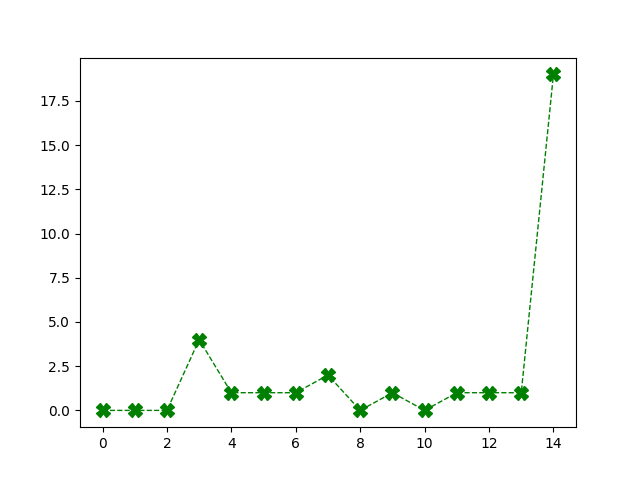
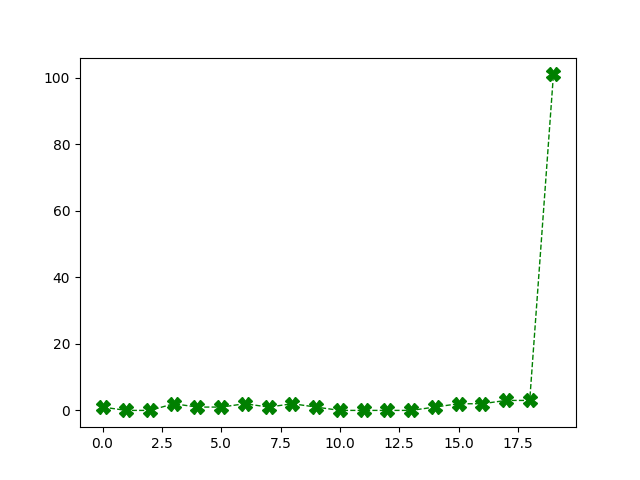
forçando perder com mais de 100 pontos

diff --git a/play_game_ar.py b/play_game_ar.py
@@ -13,8 +13,9 @@ from reinforcement_learning import ar as rl
 
 list_of_scores = []
 
+
 def run(
-        pygame, clock, screen, ground_group, plain_group, 
+        pygame, clock, screen, ground_group, plain_group,
         RL,
         ar=False,
         episodes=0,
@@ -28,56 +29,60 @@ def run(
     # Reinforcement Learning
     # -----------------------------------------------------------
     # RL = rl.RL(
-    #     alpha=alpha, 
-    #     gamma=gamma, 
-    #     epsilon=epsilon, 
+    #     alpha=alpha,
+    #     gamma=gamma,
+    #     epsilon=epsilon,
     #     episodes=episodes,
     #     init_table=init_table
     # )
     # RL.start_q_table()
     # RL.update_epsilon(0 if episode > 9 else 0.1 if episode > 4 else epsilon)
-    RL.update_epsilon(0 if episode == episodes - 1 else (epsilon / 2) if episode > (episodes // 2) else (epsilon / 4) if episode > (episodes // 4) else (epsilon / 6) if episode > (episodes // 6) else epsilon)
-    action = 10
-    state = 10
+    RL.update_epsilon(0 if episode == episodes - 1 else (epsilon / 2) if episode > (episodes // 2) else (epsilon / 4) if episode > (episodes // (1/4)) else (epsilon / 6) if episode > (episodes // (1/6)) else epsilon)
+    print("\tepsilon", RL.epsilon)
+    print("\ttabela")
+    print(RL.q_table)
+    print()
+    action=10
+    state=10
 
     # -----------------------------------------------------------
     # Configurações iniciais
     # -----------------------------------------------------------
 
     # game background image
-    BACKGROUND = pygame.image.load(address.BACKGROUND)
-    BACKGROUND = pygame.transform.scale(
+    BACKGROUND=pygame.image.load(address.BACKGROUND)
+    BACKGROUND=pygame.transform.scale(
         BACKGROUND,
         constants.SCREEN_SIZE
     )
 
-    SCORE = 0
+    SCORE=0
 
     # plain group
-    plain_group = plain_group
-    plain = plain_group.sprites()[0]
+    plain_group=plain_group
+    plain=plain_group.sprites()[0]
     # plain_group = pygame.sprite.Group()
     # plain = components.Plain()
     # plain_group.add(plain)
 
     # tree group
-    tree_group = pygame.sprite.Group()
-    tree, tree_inverted = methods.get_random_trees(
+    tree_group=pygame.sprite.Group()
+    tree, tree_inverted=methods.get_random_trees(
         constants.SCREEN_WIDTH
     )
-    LAST_TREE = tree
+    LAST_TREE=tree
     tree_group.add(tree)
     tree_group.add(tree_inverted)
 
     # score group
-    score_group = pygame.sprite.Group()
-    score = components.Score(0, 0)
+    score_group=pygame.sprite.Group()
+    score=components.Score(0, 0)
     score_group.add(score)
 
     # -----------------------------------------------------------
 
     # game loop
-    game_loop = True
+    game_loop=True
     while game_loop:
         clock.tick(constants.FPS)
 
@@ -89,32 +94,36 @@ def run(
         for x in score_group:
             score_group.remove(x)
 
-        tree = tree_group.sprites()[0]
-        agent = plain
+        tree=tree_group.sprites()[0]
+        agent=plain
 
         SCORE += methods.get_score(tree)
 
+        if SCORE > 100:
+            plain.updateGAP(constants.GAP * (SCORE - 99))
+
         # verificar distância do agente para a passagem
-        dist_x, dist_y, tree_x, tree_y = methods.dist_agent(tree_group, agent)
+        dist_x, dist_y, tree_x, tree_y=methods.dist_agent(tree_group, agent)
         plain.set_distx_disty_pass(dist_x, dist_y)
 
         # -----------------------------------
         # show components
         # -----------------------------------
-        FIRST_TREE = tree_group.sprites()[0]
+        FIRST_TREE=tree_group.sprites()[0]
 
         # show plain
         plain_group.update()
         plain_group.draw(screen)
 
         # add new tree
-        tree_group, LAST_TREE = methods.i_have_to_create_another_one(tree_group, LAST_TREE)        
+        tree_group, LAST_TREE=methods.i_have_to_create_another_one(
+            tree_group, LAST_TREE)
         # remove tree group
-        tree_group = methods.i_have_to_destroy_tree(tree_group)        
+        tree_group=methods.i_have_to_destroy_tree(tree_group)
         # remove ground group
-        ground_group = methods.i_have_to_destroy_ground(ground_group) 
+        ground_group=methods.i_have_to_destroy_ground(ground_group)
         # set show score
-        score_group = methods.set_score(score_group, SCORE)
+        score_group=methods.set_score(score_group, SCORE)
 
         # show tree
         tree_group.update()
@@ -132,21 +141,23 @@ def run(
         pygame.display.update()
 
         # verificar colisão
-        game_loop = methods.collided(plain_group, tree_group, ground_group)
+        game_loop=methods.collided(plain_group, tree_group, ground_group)
 
         if game_loop:
             # ---------------------------------------------
             # RL
-            x_plain, y_plain = plain.get_pos()
-            x_dist, y_dist = plain.get_distx_disty_pass()
-            x_pos_pass = tree_x
-            y_pos_pass = tree_y
+            x_plain, y_plain=plain.get_pos()
+            x_dist, y_dist=plain.get_distx_disty_pass()
+            x_pos_pass=tree_x
+            y_pos_pass=tree_y
 
             if action != 10:
-                RL.q_learning(x_plain, y_plain, x_dist, y_dist, x_pos_pass, y_pos_pass, action, state)
+                RL.q_learning(x_plain, y_plain, x_dist, y_dist,
+                              x_pos_pass, y_pos_pass, action, state)
 
             if game_loop:
-                action, state = RL.action(x_plain, y_plain, x_dist, y_dist, x_pos_pass, y_pos_pass)
+                action, state=RL.action(
+                    x_plain, y_plain, x_dist, y_dist, x_pos_pass, y_pos_pass)
                 if action == 0:
                     plain.fly()
             # ---------------------------------------------

diff --git a/reinforcement_learning/ar.py b/reinforcement_learning/ar.py
@@ -72,13 +72,14 @@ class RL():
         # state = 1 # acima
         # state = 0 # abaixo
 
-        state = 0 if y_plain > (y_pos_pass + 24) else 1
+        state = 0 if y_plain > (y_pos_pass + 32) else 1
 
         n = random.randint(0, 100) / 100
         if y_plain < 0:
             action = 1
         elif n < self.epsilon:
             action = random.randint(0, 1)
+            print("aleatório")
         else:
             action = 0 if self.q_table[state,
                                        0] >= self.q_table[state, 1] else 1
@@ -98,7 +99,7 @@ class RL():
         distancia_anterior = self.last_y_dist
         distancia_atual = y_dist
 
-        state = 0 if y_plain > (y_pos_pass + 24) else 1
+        state = 0 if y_plain > (y_pos_pass + 32) else 1
         '''
             state = 1 # acima
             state = 0 # abaixo
@@ -110,13 +111,13 @@ class RL():
 
         '''
 
-        if distancia_atual - 4 < distancia_anterior:
+        if distancia_atual - 6 < distancia_anterior:
             recompensa = True
         else:
             recompensa = False
 
         # reinforcement
-        reforco = 100 if recompensa else -200
+        reforco = 100 if recompensa else -100
 
         # actual value
         old = self.q_table[state, action]
@@ -124,7 +125,7 @@ class RL():
         # future state
         state_future = 0
         if action == 0 and state == 0:
-            if y_plain - constants.GAP < (y_pos_pass + 24):
+            if y_plain - constants.GAP < (y_pos_pass + 32):
                 state_future = 1
             else:
                 state_future = 0
@@ -136,7 +137,7 @@ class RL():
             state_future = 0
 
         elif action == 1 and state == 1:
-            if y_plain + constants.GRAVITY >= (y_pos_pass + 24):
+            if y_plain + constants.GRAVITY >= (y_pos_pass + 32):
                 state_future = 0
             else:
                 state_future = 1

diff --git a/components.py b/components.py
@@ -40,6 +40,8 @@ class Plain(pygame.sprite.Sprite, threading.Thread):
         self.dist_x = 1280 - self.rect[0] - 77
         self.dist_y = 0
 
+        self.gap = constants.GAP
+
     def explosion(self):
         self.isBroken = True
         self.image = pygame.image.load(
@@ -71,13 +73,16 @@ class Plain(pygame.sprite.Sprite, threading.Thread):
 
         # update height
         self.rect[1] += self.speed // 3
-
+    
     def fly(self):
         self.image = pygame.image.load(
             address.PLAINS[1]
         ).convert_alpha()
         self.flied = constants.TIME_SHOW_FIRE
-        self.speed = -constants.GAP
+        self.speed = -self.gap
+
+    def updateGAP(self, gap):
+        self.gap = gap
 
     def get_pos(self):
         return tuple([(self.rect[0] + 73), self.rect[1] + 22])

diff --git a/ar.py b/ar.py
@@ -27,7 +27,7 @@ print("\n\n\tReinforcement Learning (RL)\n")
 # alpha    = float(input("[PARAM] Learning Rate:   "))
 # gamma    = float(input("[PARAM] Discount Factor: "))
 # epsilon  = float(input("[PARAM] E-greedy:        "))
-episodes   = 15
+episodes   = 20
 alpha      = 0.125
 gamma      = 0.125
 epsilon    = 0.05
@@ -103,7 +103,7 @@ menu_loop = True
 # while menu_loop:
 for episode in range(episodes):
     # clock.tick(constants.FPS)
-    print("episode", episode, end=" >> ")
+    print("\n\tepisode", episode + 1)
 
     screen.fill((0, 0, 0))
     # setting the game's background image
